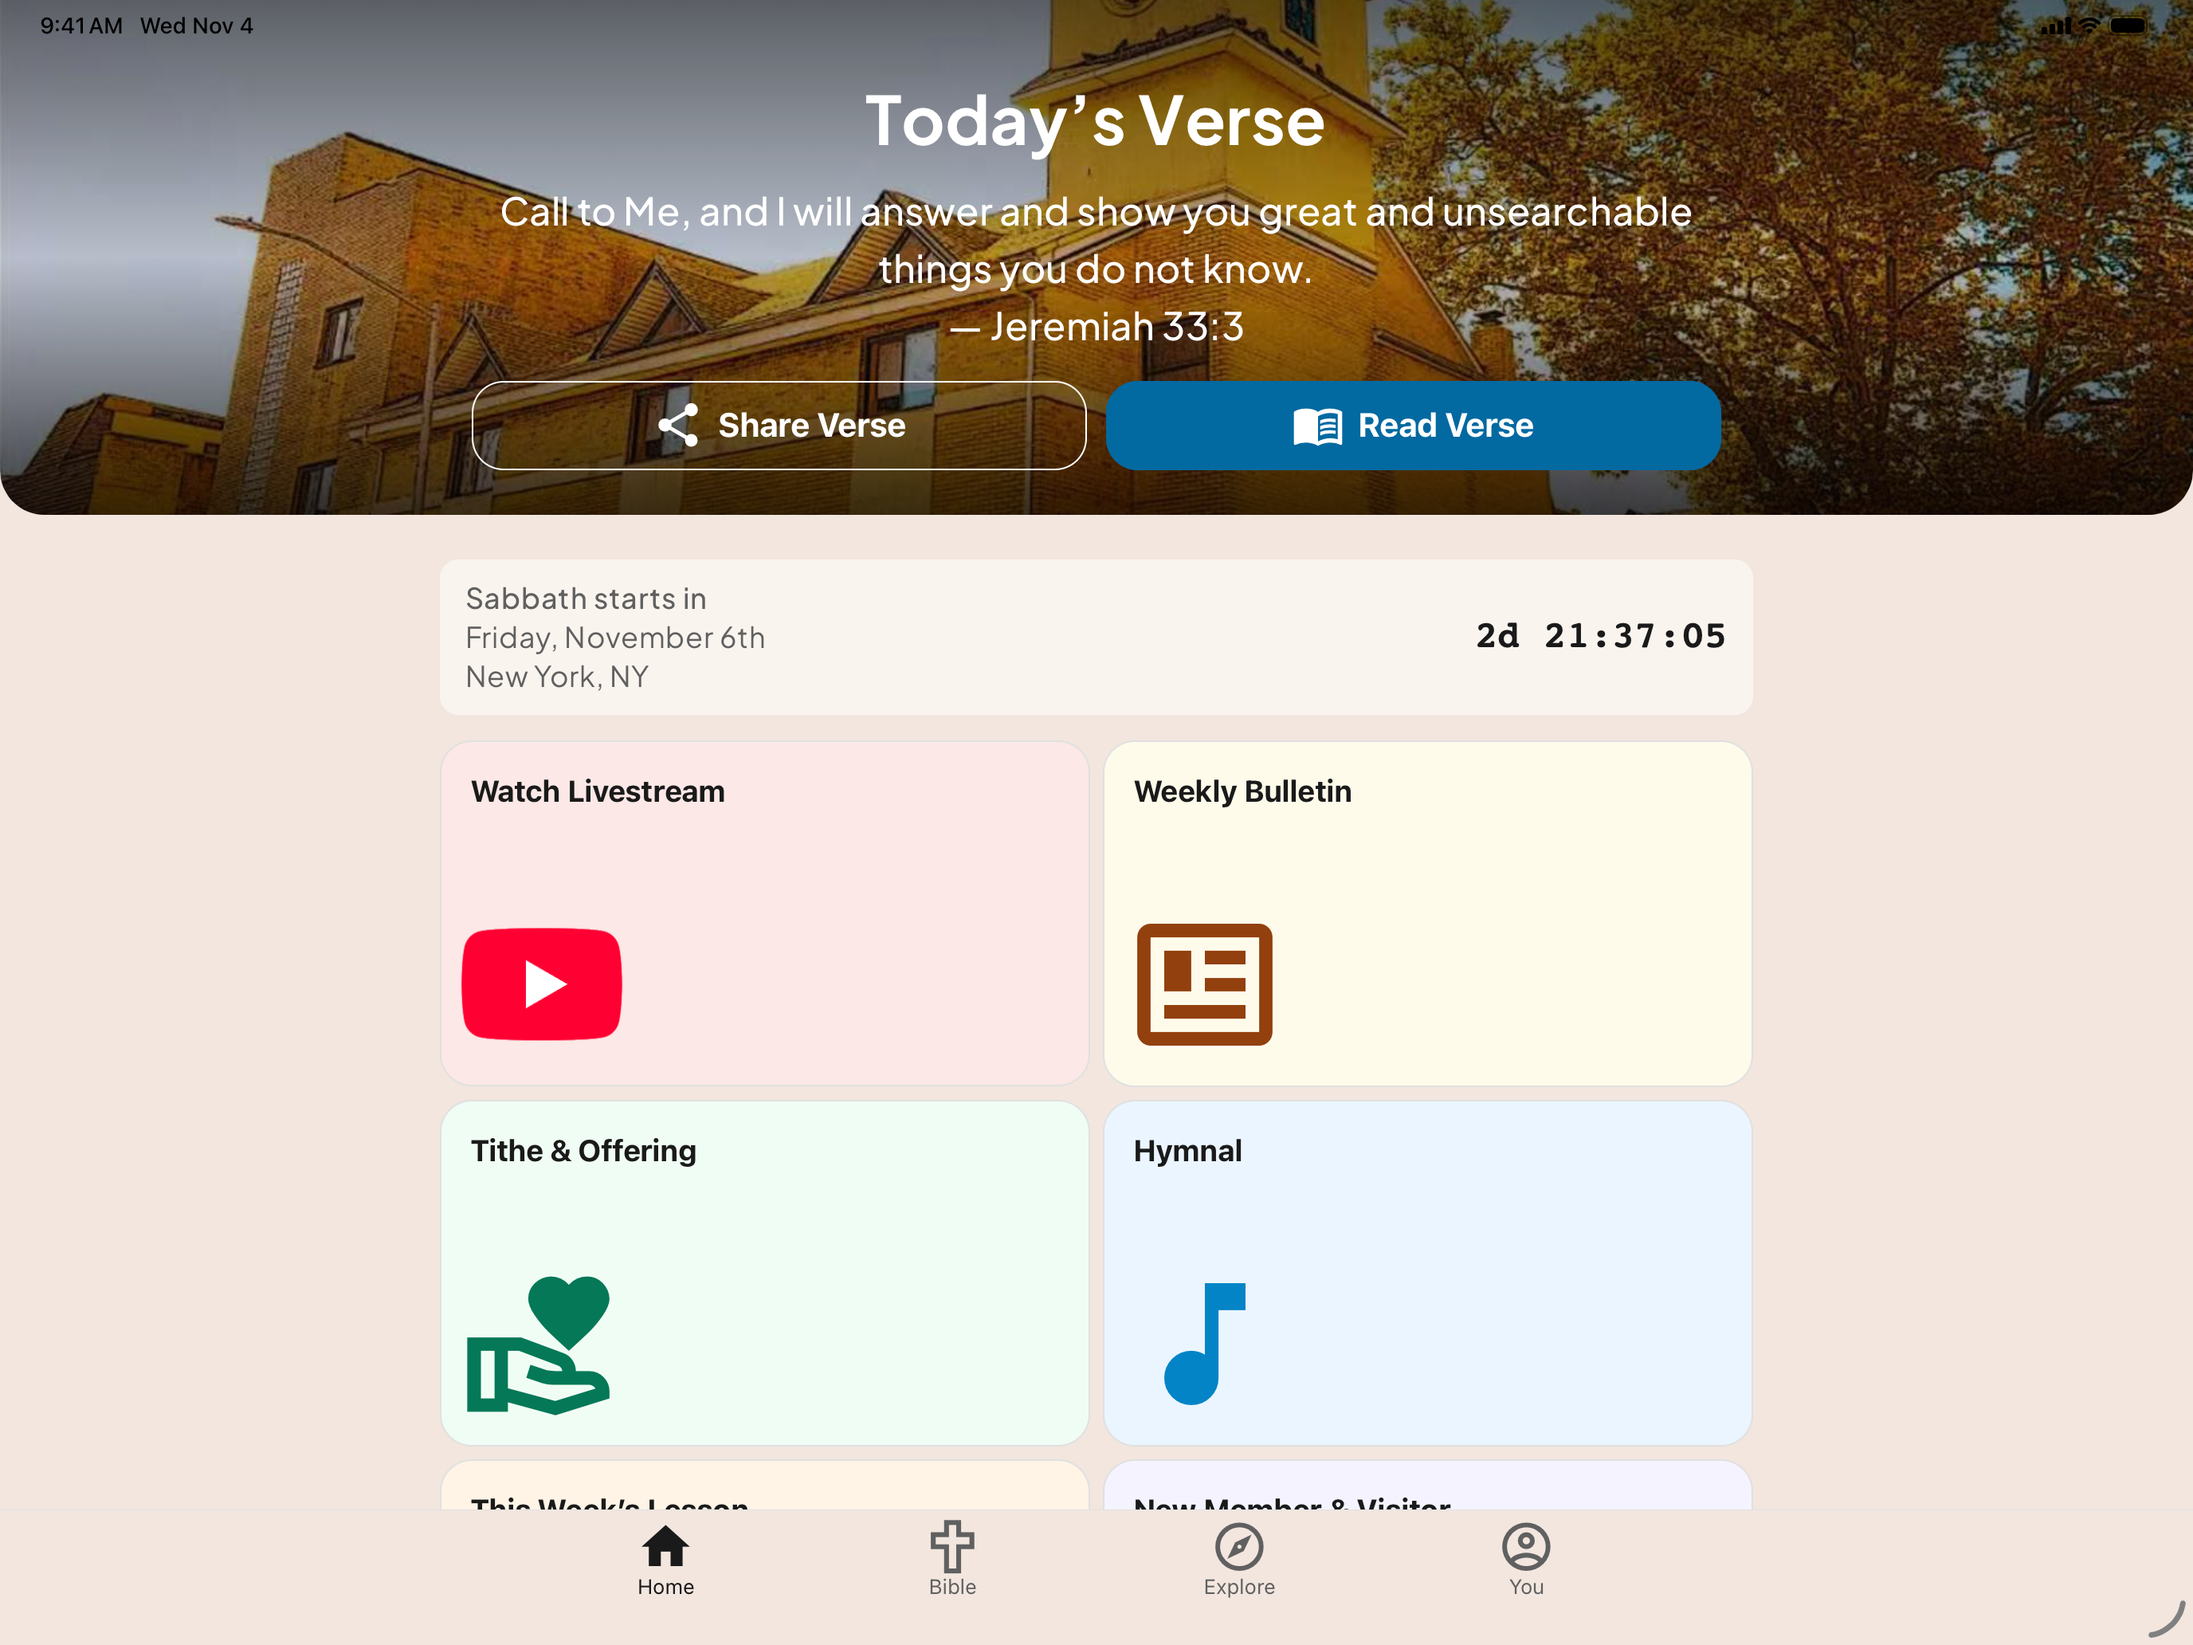
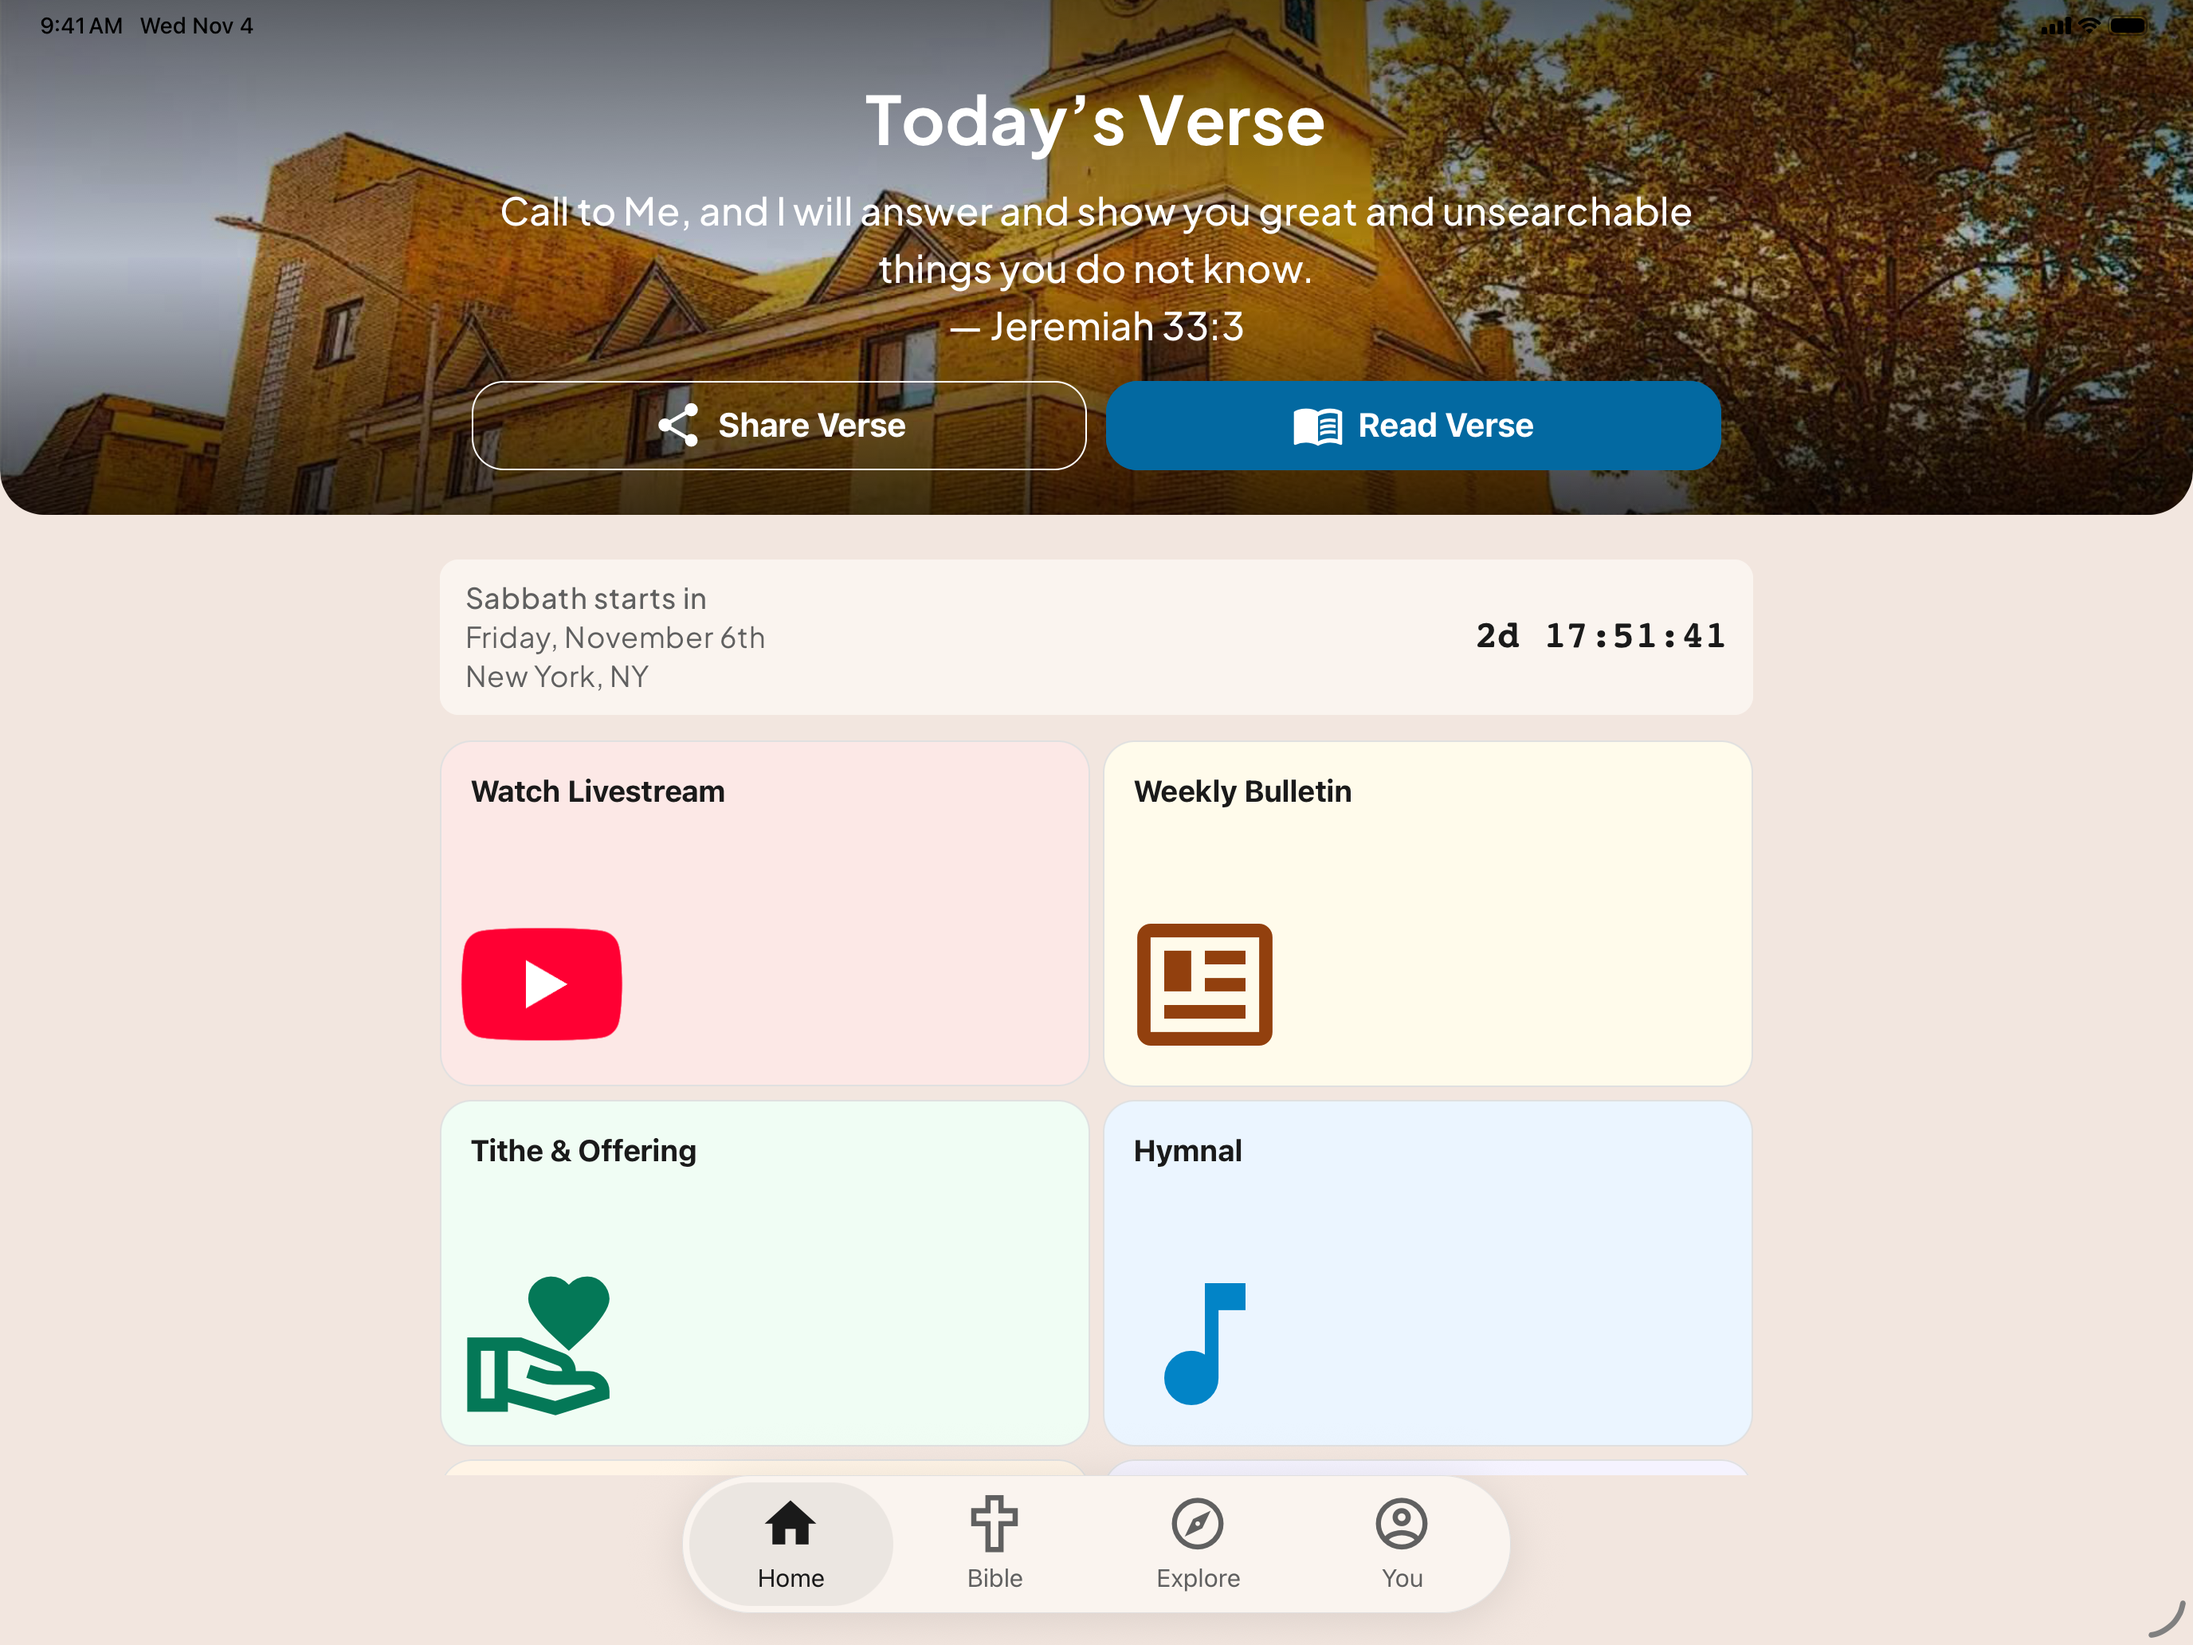
Refresh the App Store's iPad screenshots with the tablet's tab bar capsule
From fork run 41766543670: the same five shots, now with the centred
capsule rather than a phone's full-width bar. Metadata stripped; no
names show.

diff --git a/docs/store-assets/README.md b/docs/store-assets/README.md
@@ -29,7 +29,7 @@ are captured, their sizes, and what they may show are in
   takes: Home, the Bible in English and Chinese, the Bible in landscape, the Library,
   and Home in landscape. They're the key screens' 13-inch iPad shots, at the iPad's own
   150% text, copied from a run's `screens/app-store-ipad/en-US/` when the app first ran
-  on iPad (#324, November 3, 2026). Upload them with the first release that supports
+  on iPad (#324), with the tablet's tab bar capsule (#589), November 4, 2026. Upload them with the first release that supports
   iPad, and copy a newer run's set here only when the iPad's layout changes; a different
   day's verse on Home isn't a reason. The other languages' listings show these too.
 - `app-store/header/`: the App Store product page headers, one per listing language:
